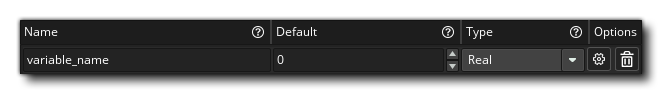
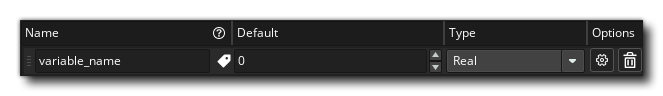
docs(feature): variable label and desc https://github.com/YoYoGames/YoYoStudio/issues/11043

diff --git a/Manual/contents/The_Asset_Editors/Object_Properties/Object_Variables.htm b/Manual/contents/The_Asset_Editors/Object_Properties/Object_Variables.htm
@@ -17,7 +17,10 @@
   <h1><span data-field="title" data-format="default">Object Variables</span></h1>
   <p>When you click on the <strong>Variable Definitions </strong>button it will open up the <strong><span data-field="title" data-format="default">Object Variables</span></strong><strong> </strong>window, which you can then use to generate any number of variables <em>before </em>the Create Event is run for every new instance of the object: </p>
   <p><img alt="Object Editor Variables Window" class="center" height="284" src="../../assets/Images/Asset_Editors/Editor_Object_Variables.png" width="680" />In this window you can click on the button <strong>Add </strong>to add a new variable to the list. You can then <strong>name </strong>the variable as well as set its <strong>type </strong>and adjust its <strong>properties</strong>:</p>
-  <p><img alt="Object Editor New Variable" class="center" src="../../assets/Images/Asset_Editors/Editor_Object_NewVariable.png" />The variable name must start with a letter and can contain only letters, numbers, and the underscore symbol <span class="inline2">_</span> with a maximum length of 64 symbols. So, valid variables are things like <span class="inline2">fish</span>, <span class="inline2">foo_bar</span>, <span class="inline2">num1</span>, and <em>invalid</em> variables would be <span class="inline2">6fish</span>, <span class="inline2">foo bar</span>, or <span class="inline2">*num</span>. Once you have given the name of the variable you need to set its type, which can be any of the following:<img alt="Object Editor Variable Types" class="center" src="../../assets/Images/Asset_Editors/Editor_Object_VariableTypes.png" />It is worth noting that this feature is particularly useful when working with parent/child objects - since you can have a parent object with a set of defined variables and then simply modify them in a child object (see the section <strong>Object Variables And Child Objects</strong> below for more details) - and for when you add instances to <a data-xref="{title}" href="../Rooms.htm">The Room Editor</a> (see the section on <strong>Layers </strong>&gt; <strong>Instance Layer</strong>), since you can also modify these variables for individual instances that have been placed in the room.</p>
+  <p><img alt="Object Editor New Variable" class="center" src="../../assets/Images/Asset_Editors/Editor_Object_NewVariable.png" />The variable name must start with a letter and can contain only letters, numbers, and the underscore symbol <span class="inline2">_</span> with a maximum length of 64 symbols. So, valid variables are things like <span class="inline2">fish</span>, <span class="inline2">foo_bar</span>, <span class="inline2">num1</span>, and <em>invalid</em> variables would be <span class="inline2">6fish</span>, <span class="inline2">foo bar</span>, or <span class="inline2">*num</span>.</p>
+  <p>You can click the <img class="icon" height="13" src="../../assets/Images/Icons/Icon_Tag.png" width="13" /> icon next to a variable&#39;s name to define its label and description. This label and description will appear when you hover over the <img class="icon" height="13" src="../../assets/Images/Icons/Icon_Tag.png" width="13" /> icon in the Variables window.</p>
+  <p>Once you have given the name of the variable you need to set its type, which can be any of the following:<img alt="Object Editor Variable Types" class="center" src="../../assets/Images/Asset_Editors/Editor_Object_VariableTypes.png" />This feature is particularly useful when working with parent/child objects - since you can have a parent object with a set of defined variables and then simply modify them in a child object (see the section <strong>Object Variables And Child Objects</strong> below for more details) - and for when you add instances to <a data-xref="{title}" href="../Rooms.htm">The Room Editor</a> (see the section on <strong>Layers </strong>&gt; <strong>Instance Layer</strong>), since you can also modify these variables for individual instances that have been placed in the room.</p>
+  <h2>Types</h2>
   <p>The different types of variable that you can create are listed below:</p>
   <ul class="colour">
     <li><strong>Real</strong>: A real number is any number that is not a whole integer and can be positive or negative. So, <span class="inline2">124.5</span>, <span class="inline2">45639.566546456</span>, <span class="inline2">0.9</span>, <span class="inline2">-45.5</span>, etc., are all examples of real numbers. All real numbers are stored as 64bit <a class="glossterm" data-glossterm="floating point" href="#">floating point</a> values (doubles). The <strong>real </strong>(and <strong>integer</strong>)<strong> </strong>data types have an option for setting a range of values which can be accessed by clicking the <strong>Options</strong> <img alt="Variable Options Icon" class="icon" src="../../assets/Images/Icons/Icon_VariableOptions.png" /> button:<img alt="Object Editor Real Variable Options" class="center" height="146" src="../../assets/Images/Asset_Editors/Editor_Object_RealOptions.png" width="420" />When you check this you can then input a start value and an end value and instead of having a fixed value shown for the variable in the <span data-field="title" data-format="default">Object Variables</span> window, you will have a slider that is clamped to these values:<br />
@@ -57,7 +60,7 @@
         <div style="float:right">Next: <a data-xref="{title}" href="Object_Events.htm">Object Events</a></div>
       </div>
     </div>
-    <h5><span data-keyref="Copyright Notice">© Copyright YoYo Games Ltd. 2024 All Rights Reserved</span></h5>
+    <h5><span data-keyref="Copyright Notice">© Copyright YoYo Games Ltd. 2025 All Rights Reserved</span></h5>
   </div>
   <!-- KEYWORDS
 Object Variables
